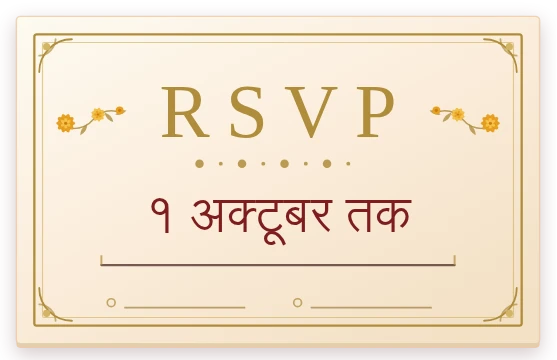
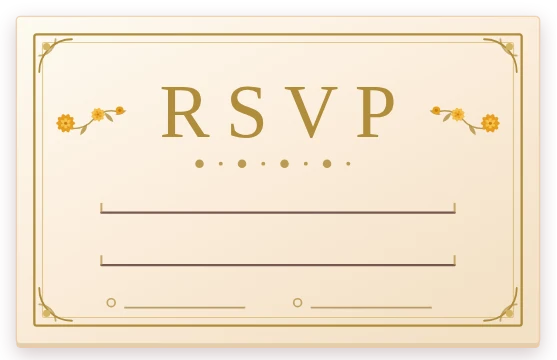
Update site, 2026-09-30

Changed region(s): [[0.1831, 0.55, 0.8241, 0.7028]]

diff --git a/index.html b/index.html
@@ -34,7 +34,7 @@
 <link rel="preconnect" href="https://fonts.googleapis.com">
 <link rel="preconnect" href="https://fonts.gstatic.com" crossorigin>
 <link rel="stylesheet" href="https://fonts.googleapis.com/css2?family=Cormorant+Garamond:ital,wght@0,300;0,400;0,500;0,600;1,300;1,400&family=Lora:ital,wght@0,400;0,500;1,400&family=Source+Sans+3:wght@400;600&family=Great+Vibes&family=Noto+Serif+Devanagari:wght@400;500;600&display=swap">
-<link rel="stylesheet" href="assets/css/site.css?v=6c990be8">
+<link rel="stylesheet" href="assets/css/site.css?v=82b7360a">
 
 <script>
   try {
@@ -254,7 +254,6 @@ aria-current="page"><span class="l" data-l="en">Home</span><span class="l" data-
     <div class="band-in">
       <p class="band-l"><span class="l" data-l="en">We would love to have you there</span><span class="l" data-l="hi" lang="hi">आप ज़रूर आइए, हमें बहुत ख़ुशी होगी</span></p>
       <a class="btn btn-primary" href="rsvp.html"><span class="l" data-l="en">RSVP</span><span class="l" data-l="hi" lang="hi">उत्तर दें</span></a>
-      <p class="band-by"><span class="l" data-l="en">Please tell us by 1 October</span><span class="l" data-l="hi" lang="hi">कृपया १ अक्टूबर तक बता दीजिए</span></p>
     </div>
   </div>
 </section>

diff --git a/travel.html b/travel.html
@@ -34,7 +34,7 @@
 <link rel="preconnect" href="https://fonts.googleapis.com">
 <link rel="preconnect" href="https://fonts.gstatic.com" crossorigin>
 <link rel="stylesheet" href="https://fonts.googleapis.com/css2?family=Cormorant+Garamond:ital,wght@0,300;0,400;0,500;0,600;1,300;1,400&family=Lora:ital,wght@0,400;0,500;1,400&family=Source+Sans+3:wght@400;600&family=Great+Vibes&family=Noto+Serif+Devanagari:wght@400;500;600&display=swap">
-<link rel="stylesheet" href="assets/css/site.css?v=6c990be8">
+<link rel="stylesheet" href="assets/css/site.css?v=82b7360a">
 
 <script>
   try {
@@ -189,7 +189,6 @@ aria-current="page"><span class="l" data-l="en">Travel</span><span class="l" dat
     <div class="band-in">
       <p class="band-l"><span class="l" data-l="en">We would love to have you there</span><span class="l" data-l="hi" lang="hi">आप ज़रूर आइए, हमें बहुत ख़ुशी होगी</span></p>
       <a class="btn btn-primary" href="rsvp.html"><span class="l" data-l="en">RSVP</span><span class="l" data-l="hi" lang="hi">उत्तर दें</span></a>
-      <p class="band-by"><span class="l" data-l="en">Please tell us by 1 October</span><span class="l" data-l="hi" lang="hi">कृपया १ अक्टूबर तक बता दीजिए</span></p>
     </div>
   </div>
 </section>

diff --git a/assets/css/site.css b/assets/css/site.css
@@ -571,8 +571,6 @@ html[lang="hi"] .flat-more{letter-spacing:.02em;text-transform:none;font-size:13
   text-wrap:balance}
 html[lang="hi"] .band-l{font-family:var(--deva);
   font-size:clamp(17px,2.2vw,25px);line-height:1.6}
-.band-by{font:400 clamp(11.5px,1.05vw,13.5px)/1.5 var(--ui);color:var(--ink-2);
-  margin-top:14px}
 .sec-band .btn{margin-top:clamp(16px,2vw,22px)}
 
 /* the polaroids, laid out like a handful of photographs on the table */
@@ -1257,7 +1255,6 @@ html[lang="hi"] .look-s{letter-spacing:.01em;text-transform:none;font-size:12.5p
 
   /* the closing ask */
   .band-l{font-size:19px}
-  .band-by{font-size:12px}
   .sec-band .btn{margin-top:16px}
   .btn{font-size:12px;padding:15px 26px;letter-spacing:.13em}
 

diff --git a/invite.html b/invite.html
@@ -34,7 +34,7 @@
 <link rel="preconnect" href="https://fonts.googleapis.com">
 <link rel="preconnect" href="https://fonts.gstatic.com" crossorigin>
 <link rel="stylesheet" href="https://fonts.googleapis.com/css2?family=Cormorant+Garamond:ital,wght@0,300;0,400;0,500;0,600;1,300;1,400&family=Lora:ital,wght@0,400;0,500;1,400&family=Source+Sans+3:wght@400;600&family=Great+Vibes&family=Noto+Serif+Devanagari:wght@400;500;600&display=swap">
-<link rel="stylesheet" href="assets/css/site.css?v=6c990be8">
+<link rel="stylesheet" href="assets/css/site.css?v=82b7360a">
 
 <script>
   try {

diff --git a/rsvp.html b/rsvp.html
@@ -34,7 +34,7 @@
 <link rel="preconnect" href="https://fonts.googleapis.com">
 <link rel="preconnect" href="https://fonts.gstatic.com" crossorigin>
 <link rel="stylesheet" href="https://fonts.googleapis.com/css2?family=Cormorant+Garamond:ital,wght@0,300;0,400;0,500;0,600;1,300;1,400&family=Lora:ital,wght@0,400;0,500;1,400&family=Source+Sans+3:wght@400;600&family=Great+Vibes&family=Noto+Serif+Devanagari:wght@400;500;600&display=swap">
-<link rel="stylesheet" href="assets/css/site.css?v=6c990be8">
+<link rel="stylesheet" href="assets/css/site.css?v=82b7360a">
 
 <script>
   try {

diff --git a/schedule-bride.html b/schedule-bride.html
@@ -34,7 +34,7 @@
 <link rel="preconnect" href="https://fonts.googleapis.com">
 <link rel="preconnect" href="https://fonts.gstatic.com" crossorigin>
 <link rel="stylesheet" href="https://fonts.googleapis.com/css2?family=Cormorant+Garamond:ital,wght@0,300;0,400;0,500;0,600;1,300;1,400&family=Lora:ital,wght@0,400;0,500;1,400&family=Source+Sans+3:wght@400;600&family=Great+Vibes&family=Noto+Serif+Devanagari:wght@400;500;600&display=swap">
-<link rel="stylesheet" href="assets/css/site.css?v=6c990be8">
+<link rel="stylesheet" href="assets/css/site.css?v=82b7360a">
 
 <script>
   try {

diff --git a/schedule-groom.html b/schedule-groom.html
@@ -34,7 +34,7 @@
 <link rel="preconnect" href="https://fonts.googleapis.com">
 <link rel="preconnect" href="https://fonts.gstatic.com" crossorigin>
 <link rel="stylesheet" href="https://fonts.googleapis.com/css2?family=Cormorant+Garamond:ital,wght@0,300;0,400;0,500;0,600;1,300;1,400&family=Lora:ital,wght@0,400;0,500;1,400&family=Source+Sans+3:wght@400;600&family=Great+Vibes&family=Noto+Serif+Devanagari:wght@400;500;600&display=swap">
-<link rel="stylesheet" href="assets/css/site.css?v=6c990be8">
+<link rel="stylesheet" href="assets/css/site.css?v=82b7360a">
 
 <script>
   try {

diff --git a/schedule.html b/schedule.html
@@ -34,7 +34,7 @@
 <link rel="preconnect" href="https://fonts.googleapis.com">
 <link rel="preconnect" href="https://fonts.gstatic.com" crossorigin>
 <link rel="stylesheet" href="https://fonts.googleapis.com/css2?family=Cormorant+Garamond:ital,wght@0,300;0,400;0,500;0,600;1,300;1,400&family=Lora:ital,wght@0,400;0,500;1,400&family=Source+Sans+3:wght@400;600&family=Great+Vibes&family=Noto+Serif+Devanagari:wght@400;500;600&display=swap">
-<link rel="stylesheet" href="assets/css/site.css?v=6c990be8">
+<link rel="stylesheet" href="assets/css/site.css?v=82b7360a">
 
 <script>
   try {

diff --git a/wardrobe.html b/wardrobe.html
@@ -34,7 +34,7 @@
 <link rel="preconnect" href="https://fonts.googleapis.com">
 <link rel="preconnect" href="https://fonts.gstatic.com" crossorigin>
 <link rel="stylesheet" href="https://fonts.googleapis.com/css2?family=Cormorant+Garamond:ital,wght@0,300;0,400;0,500;0,600;1,300;1,400&family=Lora:ital,wght@0,400;0,500;1,400&family=Source+Sans+3:wght@400;600&family=Great+Vibes&family=Noto+Serif+Devanagari:wght@400;500;600&display=swap">
-<link rel="stylesheet" href="assets/css/site.css?v=6c990be8">
+<link rel="stylesheet" href="assets/css/site.css?v=82b7360a">
 
 <script>
   try {
